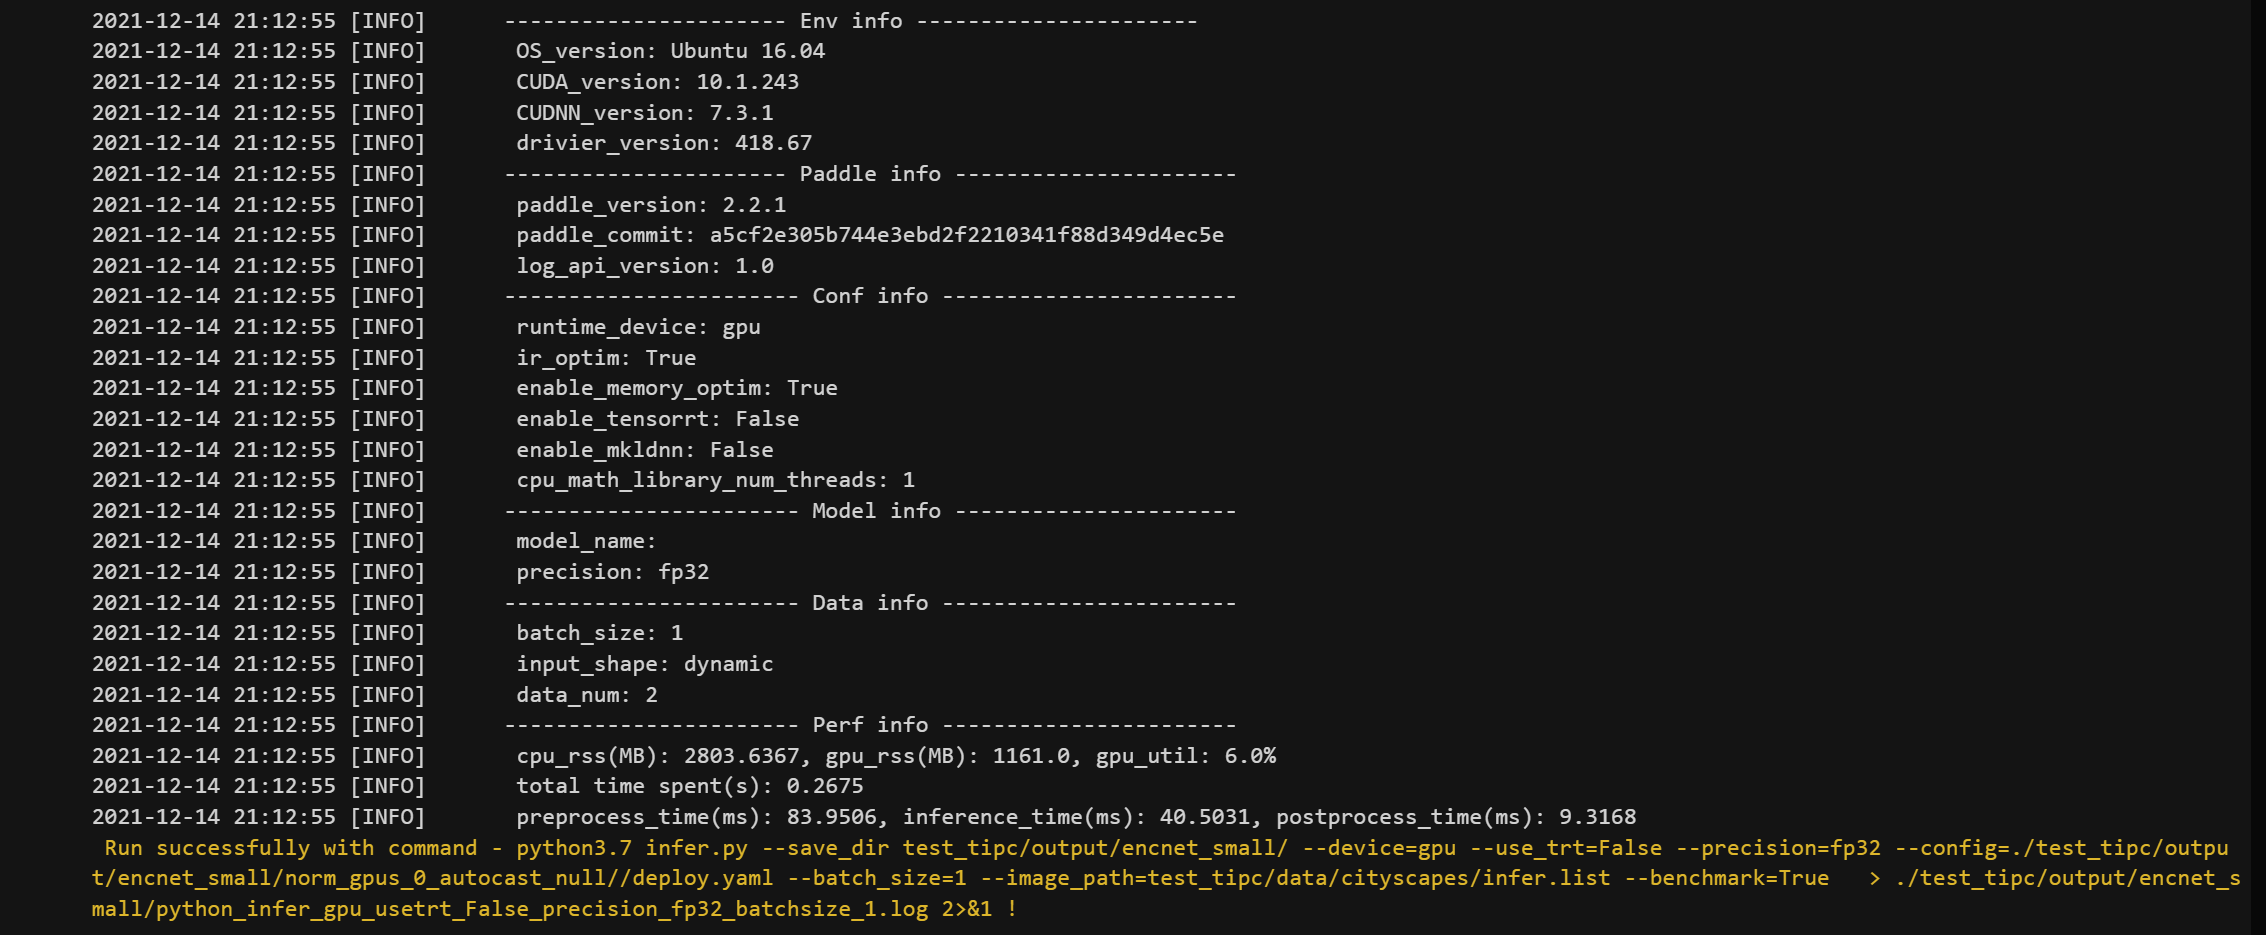
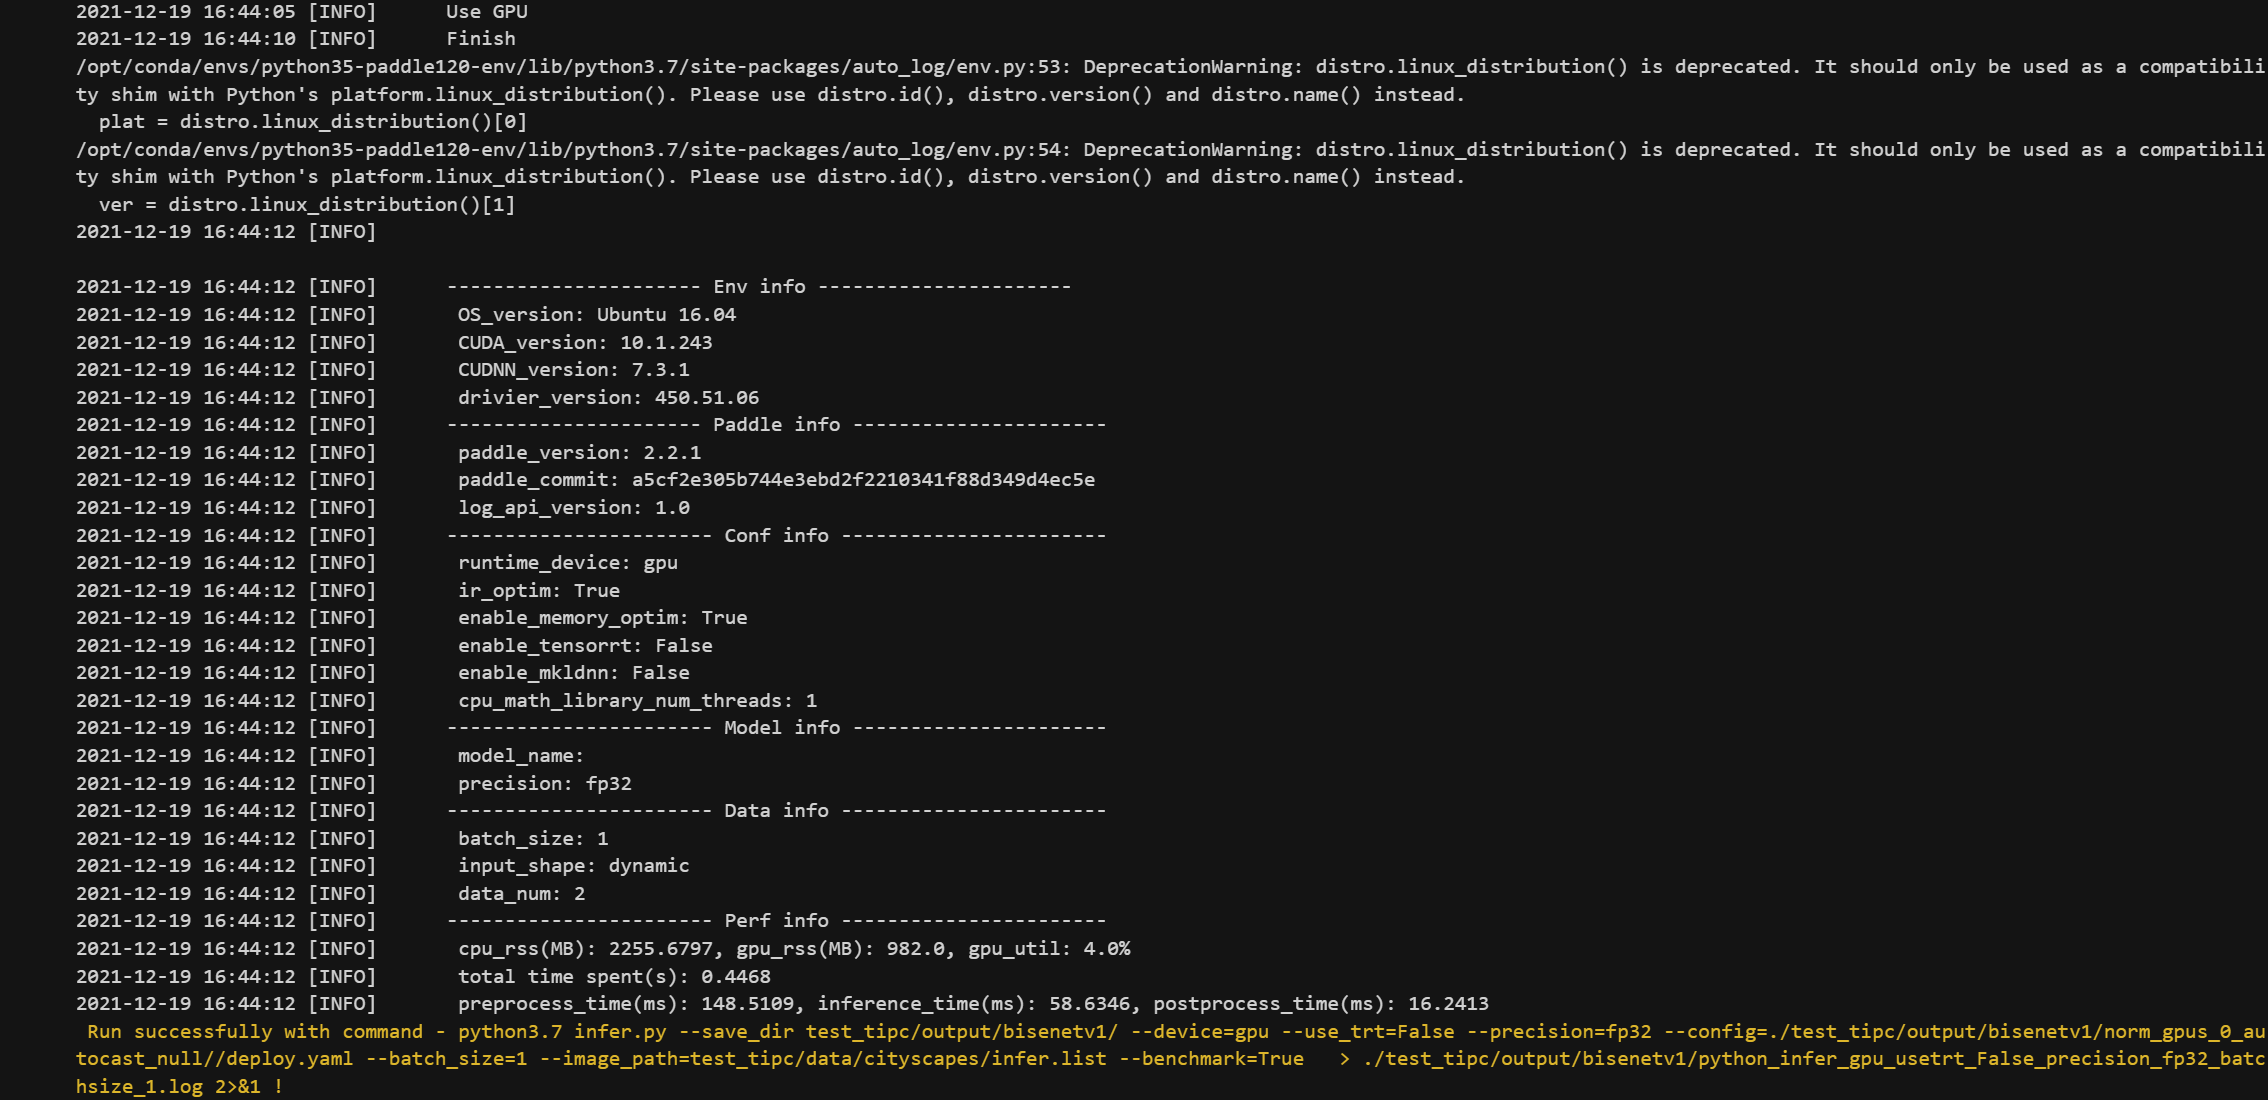
update tipc of bisenetv1

diff --git a/paddleseg/models/bisenetv1.py b/paddleseg/models/bisenetv1.py
@@ -62,6 +62,7 @@ class BiseNetV1(nn.Layer):
         self.ffm = FeatureFusion(conv_channel * 2, conv_channel * 2, 1)
 
         self.pretrained = pretrained
+        self.init_weight()
 
     def init_weight(self):
         if self.pretrained is not None:

diff --git a/test_tipc/docs/test_train_inference_python.md b/test_tipc/docs/test_train_inference_python.md
@@ -8,7 +8,7 @@ Linux端基础训练预测功能测试的主程序为`test_train_inference_pytho
 
 | 算法名称 | 模型名称 | 单机单卡 | 单机多卡 | 多机多卡 | 模型压缩（单机多卡） |
 |  :----  |   :----  |    :----  |  :----   |  :----   |  :----   |
-| ENCNet | encnet | 正常训练  | 正常训练  |  |  |
+| BiSeNetV1 | bisenetv1 | 正常训练  | 正常训练  |  |  |
 
 
 
@@ -40,8 +40,8 @@ Linux端基础训练预测功能测试的主程序为`test_train_inference_pytho
 
 - 模式1：lite_train_lite_infer，使用少量数据训练，用于快速验证训练到预测的走通流程，不验证精度和速度；
 ```shell
-bash test_tipc/prepare.sh ./test_tipc/configs/encnet_small/train_infer_python.txt 'lite_train_lite_infer'
-bash test_tipc/test_train_inference_python.sh ./test_tipc/configs/encnet_small/train_infer_python.txt 'lite_train_lite_infer'
+bash test_tipc/prepare.sh ./test_tipc/configs/bisenet/train_infer_python.txt 'lite_train_lite_infer'
+bash test_tipc/test_train_inference_python.sh ./test_tipc/configs/bisenet/train_infer_python.txt 'lite_train_lite_infer'
 ```
 
 运行相应指令后，在`test_tipc/output`文件夹下自动会保存运行日志。如'lite_train_lite_infer'模式下，会运行训练+inference的链条，因此，在`test_tipc/output`文件夹有以下文件：
@@ -55,18 +55,15 @@ test_tipc/output/
 
 其中`results_python.log`中包含了每条指令的运行状态，如果运行成功会输出：
 ```
-Run successfully with command - python3.7 train.py --config test_tipc/configs/encnet_small/encnet_cityscapes_1024x512_80k.yml --do_eval --save_interval 10 --seed 10    --save_dir=./test_tipc/output/encnet_small/norm_gpus_0_autocast_null --iters=10     --batch_size=2     !  
-Run successfully with command - python3.7 export_model.py --config test_tipc/configs/encnet_small/encnet_cityscapes_1024x512_80k.yml --model_path=./test_tipc/output/encnet_small/norm_gpus_0_autocast_null/best_model/model.pdparams --save_dir=./test_tipc/output/encnet_small/norm_gpus_0_autocast_null!  
-Run successfully with command - python3.7 infer.py --save_dir test_tipc/output/encnet_small/ --device=cpu --enable_mkldnn=True --cpu_threads=1 --config=./test_tipc/output/encnet_small/norm_gpus_0_autocast_null//deploy.yaml --batch_size=1 --image_path=test_tipc/data/cityscapes/infer.list --benchmark=True --precision=fp32 --save_dir=./test_tipc/output/encnet_small/python_infer_cpu_usemkldnn_True_threads_1_precision_fp32_batchsize_1_results   > ./test_tipc/output/encnet_small/python_infer_cpu_usemkldnn_True_threads_1_precision_fp32_batchsize_1.log 2>&1 !  
-Run successfully with command - python3.7 infer.py --save_dir test_tipc/output/encnet_small/ --device=cpu --enable_mkldnn=True --cpu_threads=6 --config=./test_tipc/output/encnet_small/norm_gpus_0_autocast_null//deploy.yaml --batch_size=1 --image_path=test_tipc/data/cityscapes/infer.list --benchmark=True --precision=fp32 --save_dir=./test_tipc/output/encnet_small/python_infer_cpu_usemkldnn_True_threads_6_precision_fp32_batchsize_1_results   > ./test_tipc/output/encnet_small/python_infer_cpu_usemkldnn_True_threads_6_precision_fp32_batchsize_1.log 2>&1 !
+Run successfully with command - python3.7 train.py --config test_tipc/configs/bisenetv1/bisenetv1_cityscapes_1024x512_160k.yml --do_eval --save_interval 100 --seed 100    --save_dir=./test_tipc/output/bisenetv1/norm_gpus_0_autocast_null --iters=10     --batch_size=2
+Run successfully with command - python3.7 export_model.py --config test_tipc/configs/bisenetv1/bisenetv1_cityscapes_1024x512_160k.yml --model_path=./test_tipc/output/bisenetv1/norm_gpus_0_autocast_null/best_model/model.pdparams --save_dir=./test_tipc/output/bisenetv1/norm_gpus_0_autocast_null!
+Run successfully with command - python3.7 infer.py --save_dir test_tipc/output/bisenetv1/ --device=cpu --enable_mkldnn=True --cpu_threads=1 --config=./test_tipc/output/bisenetv1/norm_gpus_0_autocast_null//deploy.yaml --batch_size=1 --image_path=test_tipc/data/cityscapes/infer.list --benchmark=True --precision=fp32 --save_dir=./test_tipc/output/bisenetv1/python_infer_cpu_usemkldnn_True_threads_1_precision_fp32_batchsize_1_results   > ./test_tipc/output/bisenetv1/python_infer_cpu_usemkldnn_True_threads_1_precision_fp32_batchsize_1.log 2>&1 !
 
 ```
 如果运行失败，会输出：
 ```
-Run faild with command - python3.7 train.py --config test_tipc/configs/encnet_small/encnet_cityscapes_1024x512_80k.yml --do_eval --save_interval 10 --seed 10    --save_dir=./test_tipc/output/encnet_small/norm_gpus_0_autocast_null --iters=10     --batch_size=2     !  
-Run faild with command - python3.7 export_model.py --config test_tipc/configs/encnet_small/encnet_cityscapes_1024x512_80k.yml --model_path=./test_tipc/output/encnet_small/norm_gpus_0_autocast_null/best_model/model.pdparams --save_dir=./test_tipc/output/encnet_small/norm_gpus_0_autocast_null!  
-Run faild with command - python3.7 infer.py --save_dir test_tipc/output/encnet_small/ --device=cpu --enable_mkldnn=True --cpu_threads=1 --config=./test_tipc/output/encnet_small/norm_gpus_0_autocast_null//deploy.yaml --batch_size=1 --image_path=test_tipc/data/cityscapes/infer.list --benchmark=True --precision=fp32 --save_dir=./test_tipc/output/encnet_small/python_infer_cpu_usemkldnn_True_threads_1_precision_fp32_batchsize_1_results   > ./test_tipc/output/encnet_small/python_infer_cpu_usemkldnn_True_threads_1_precision_fp32_batchsize_1.log 2>&1 !  
-Run faild with command - python3.7 infer.py --save_dir test_tipc/output/encnet_small/ --device=cpu --enable_mkldnn=True --cpu_threads=6 --config=./test_tipc/output/encnet_small/norm_gpus_0_autocast_null//deploy.yaml --batch_size=1 --image_path=test_tipc/data/cityscapes/infer.list --benchmark=True --precision=fp32 --save_dir=./test_tipc/output/encnet_small/python_infer_cpu_usemkldnn_True_threads_6_precision_fp32_batchsize_1_results   > ./test_tipc/output/encnet_small/python_infer_cpu_usemkldnn_True_threads_6_precision_fp32_batchsize_1.log 2>&1 !
-......
+Run faild with command - python3.7 train.py --config test_tipc/configs/bisenetv1/bisenetv1_cityscapes_1024x512_160k.yml --do_eval --save_interval 100 --seed 100    --save_dir=./test_tipc/output/bisenetv1/norm_gpus_0_autocast_null --iters=10     --batch_size=2
+Run faild with command - python3.7 export_model.py --config test_tipc/configs/bisenetv1/bisenetv1_cityscapes_1024x512_160k.yml --model_path=./test_tipc/output/bisenetv1/norm_gpus_0_autocast_null/best_model/model.pdparams --save_dir=./test_tipc/output/bisenetv1/norm_gpus_0_autocast_null!
+Run falid with command - python3.7 infer.py --save_dir test_tipc/output/bisenetv1/ --device=cpu --enable_mkldnn=True --cpu_threads=1 --config=./test_tipc/output/bisenetv1/norm_gpus_0_autocast_null//deploy.yaml --batch_size=1 --image_path=test_tipc/data/cityscapes/infer.list --benchmark=True --precision=fp32 --save_dir=./test_tipc/output/bisenetv1/python_infer_cpu_usemkldnn_True_threads_1_precision_fp32_batchsize_1_results   > ./test_tipc/output/bisenetv1/python_infer_cpu_usemkldnn_True_threads_1_precision_fp32_batchsize_1.log 2>&1 !
 ```
 可以很方便的根据`results_python.log`中的内容判定哪一个指令运行错误。

diff --git a/README.md b/README.md
@@ -1,30 +1,35 @@
-# ENCNet_paddle
+#BiSeNetV1
 
 
 ## 1 简介
-
-本项目基于paddlepaddle框架复现了ENCNet语义分割模型，ENCNet提取出特征图中的类别信息，同时引出注意力机制损失(se_loss)来提升网络性能。
+本项目基于paddlepaddle框架复现了BiSeNet语义分割模型，BiSeNet利用Attention Refinement Module 和 Feature Fusion Module来提升网络性能。
 
 **论文：**
-- [1] Hang Zhang, Kristin Dana, Jianping Shi, Zhongyue Zhang, Xiaogang Wang, Ambrish Tyagi, Amit Agrawal. [Context Encoding for Semantic Segmentation](https://paperswithcode.com/paper/context-encoding-for-semantic-segmentation)
+- [1] Changqian Yu, Jingbo Wang, Chao Peng, Changxin Gao, Gang Yu, and Nong Sang. [BiSeNet: Bilateral Segmentation Network for Real-time Semantic Segmentation](https://paperswithcode.com/paper/bisenet-bilateral-segmentation-network-for)
 
 **项目参考：**
-- [https://github.com/open-mmlab/mmsegmentation/tree/master/configs/encnet](https://github.com/open-mmlab/mmsegmentation/tree/master/configs/encnet)
+- [https://github.com/ycszen/TorchSeg](https://github.com/ycszen/TorchSeg)
 
 ## 2 复现精度
 >在CityScapes val数据集的测试效果如下表。
 
+
 |NetWork |steps|opt|image_size|batch_size|dataset|memory|card|mIou|config|weight|log|
 | :---: | :---: | :---: | :---: | :---: | :---: | :---: | :---: | :---: | :---: | :---: | :---: |
-|ENCNet|80K|SGD|1024x512|8|CityScapes|32G|4|78.70|[encnet_cityscapes_1024x512_80k.yml](configs/encnet/encnet_cityscapes_1024x512_80k.yml)|[link](https://bj.bcebos.com/v1/ai-studio-cluster-infinite-task/outputs/105022.tar?authorization=bce-auth-v1%2F0ef6765c1e494918bc0d4c3ca3e5c6d1%2F2021-11-24T10%3A37%3A31Z%2F-1%2F%2F1d0504cbdf4fac38dc60c1298e9b632e739d1a2f952485056a8f50ff45f3344b)|[-](-)|
+|BiSeNet|160K|SGD|1024x512|4|CityScapes|32G|4|75.19|[bisenetv1_cityscapes_1024x512_160k.yml](configs/bisenetv1/bisenetv1_cityscapes_1024x512_160k.yml)|[link](https://bj.bcebos.com/v1/ai-studio-cluster-infinite-task/outputs/105278.tar?authorization=bce-auth-v1%2F0ef6765c1e494918bc0d4c3ca3e5c6d1%2F2021-11-25T19%3A25%3A13Z%2F-1%2F%2F3b5cf09d2869e0445166814922739cc648b95396256b7eb7f6a1e07cbcf01021)|[log]()|
 
+## 3 数据集
+[CityScapes dataset](https://www.cityscapes-dataset.com/)
 
-## 3 环境依赖
+- 数据集大小:
+    - 训练集: 2975
+    - 验证集: 500
+
+## 4 环境依赖
 - 硬件: Tesla V100 * 4
 
 - 框架:
     - PaddlePaddle == 2.2.0
-
 
 ## 快速开始
 **tipc**
@@ -34,39 +39,39 @@
 
 ```python
 
-python3.7 export_model.py --config test_tipc/configs/encnet_small/encnet_cityscapes_1024x512_80k.yml --model_path=./test_tipc/output/encnet_small/norm_gpus_0_autocast_null/best_model/model.pdparams --save_dir=./test_tipc/output/encnet_small/norm_gpus_0_autocast_null
+python3.7 export_model.py --config test_tipc/configs/bisenetv1/bisenetv1_cityscapes_1024x512_160k.yml --model_path=./test_tipc/output/bisenetv1/norm_gpus_0_autocast_null/best_model/model.pdparams --save_dir=./test_tipc/output/bisenetv1/
 ```
 
 **预测**
 
 **原图**
-![原图](https://github.com/ETTR123/PaddleSeg/blob/encnet/test_tipc/data/origin.png)
+![原图](test_tipc/data/origin.png)
 
 ```python
 
-python3.7 infer.py --save_dir test_tipc/output/encnet_small/ --device=gpu --use_trt=False --precision=fp32 --config=./test_tipc/output/encnet_small/norm_gpus_0_autocast_null//deploy.yaml --batch_size=1 --image_path=test_tipc/data/cityscapes/infer.list --benchmark=True
+python3.7 infer.py --save_dir test_tipc/output/bisenetv1/ --device=gpu --use_trt=False --precision=fp32 --config=./test_tipc/output/bisenetv1/norm_gpus_0_autocast_null//deploy.yaml --batch_size=1 --image_path=test_tipc/data/cityscapes/infer.list --benchmark=True
 
 ```
 
 **结果**
-![结果](https://github.com/ETTR123/PaddleSeg/blob/encnet/test_tipc/data/gt.png)
+![结果](test_tipc/data/gt.png)
 
 ```
 #predict
 Class IoU:
-[0.9901 0.9567 0.9707 0.     0.     0.5505 0.     0.7629 0.9697 0.
- 0.7794 0.9009 0.     0.9517 0.     0.     0.     0.7787 0.7506]
+[0.9832 0.9334 0.979  0.     0.     0.6956 0.     0.8139 0.9705 0.
+ 0.8294 0.9199 0.     0.9541 0.     0.     0.     0.7803 0.8127]
 Class Acc:
-[0.9925 0.9837 0.9747 0.     0.     0.9782 0.     0.9164 0.9841 0.
- 0.9995 0.9825 0.     0.98   0.     0.     0.     0.9644 0.9798]
+[0.9852 0.9869 0.9881 0.     0.     0.8212 0.     0.8451 0.9818 0.
+ 0.9833 0.9834 0.     0.9754 0.     0.     0.     0.9607 0.9394]
 
- #inference
+#inference
 Class IoU:
-[0.9901 0.9569 0.9707 0.     0.     0.5505 0.     0.7628 0.9697 0.
- 0.7794 0.9007 0.     0.9516 0.     0.     0.     0.7784 0.7506]
+[0.9832 0.9334 0.979  0.     0.     0.6956 0.     0.8139 0.9705 0.
+ 0.8294 0.9199 0.     0.9541 0.     0.     0.     0.7803 0.8127]
 Class Acc:
-[0.9925 0.9837 0.9747 0.     0.     0.9782 0.     0.9164 0.9842 0.
- 0.9995 0.9825 0.     0.98   0.     0.     0.     0.9642 0.9798]
+[0.9852 0.9869 0.9881 0.     0.     0.8212 0.     0.8451 0.9818 0.
+ 0.9833 0.9834 0.     0.9754 0.     0.     0.     0.9607 0.9394]
 ```
 
 **tipc测试结果截图**
@@ -95,4 +100,4 @@ Class Acc:
 │  val.py  
 ```
 **说明**
- 感谢朗督复现ENCNet[https://github.com/justld/ENCNet_paddle](https://github.com/justld/ENCNet_paddle)
+ 感谢朗督复现BiSeNetV1[https://github.com/justld/BiSNetV1_paddle](https://github.com/justld/BiSNetV1_paddle)
